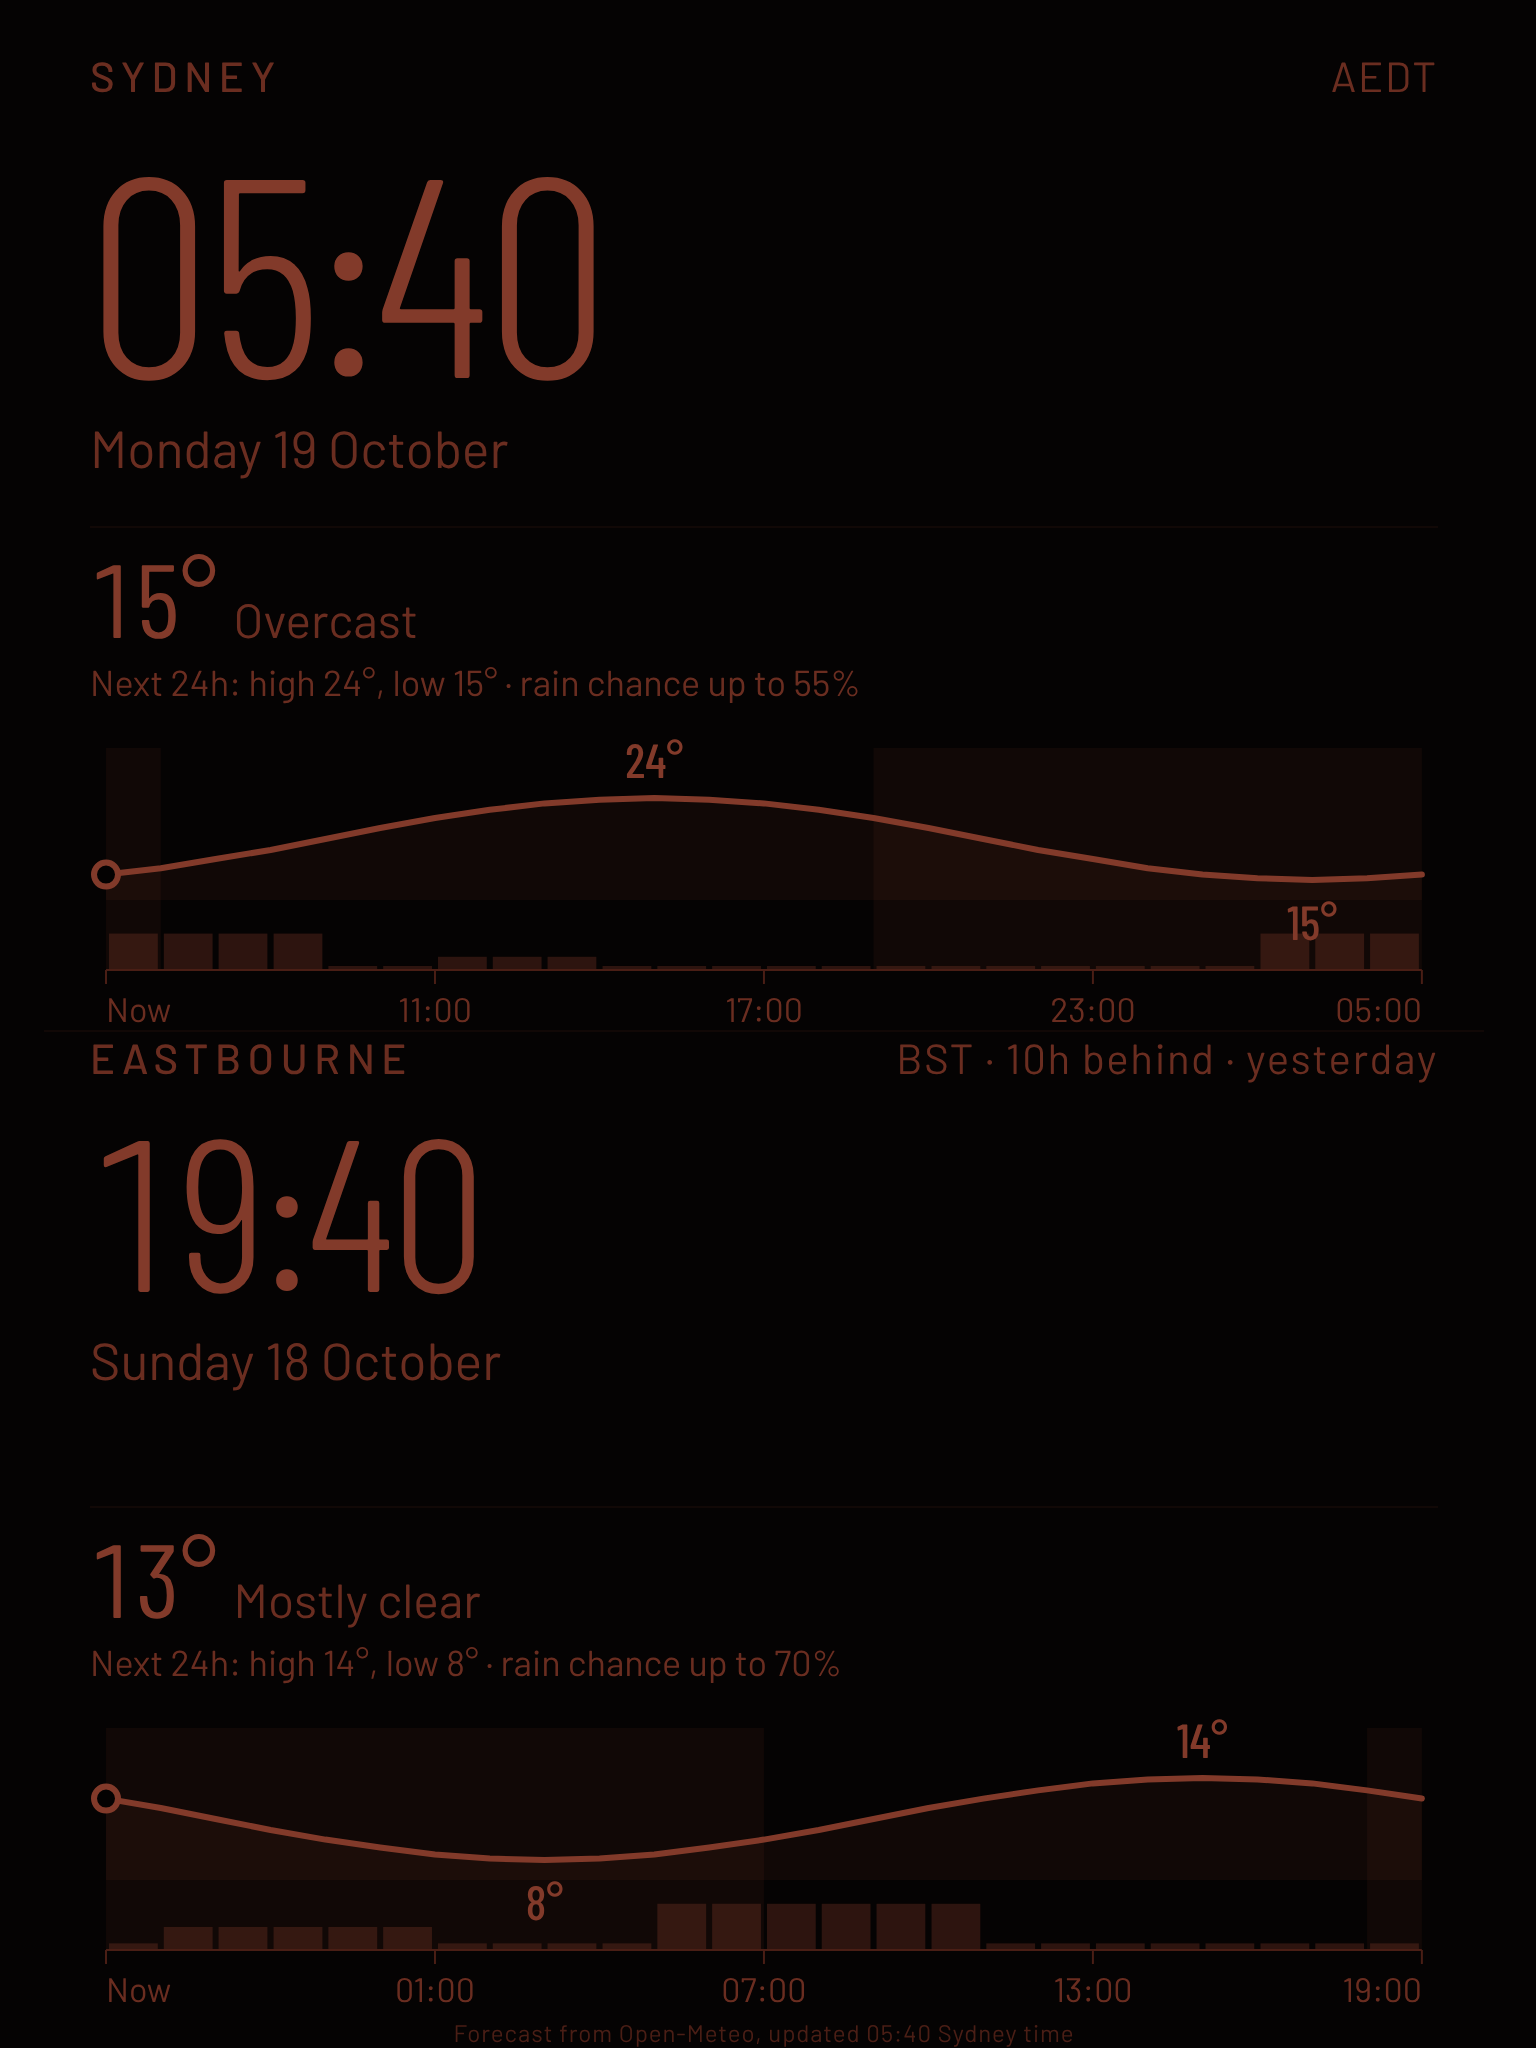
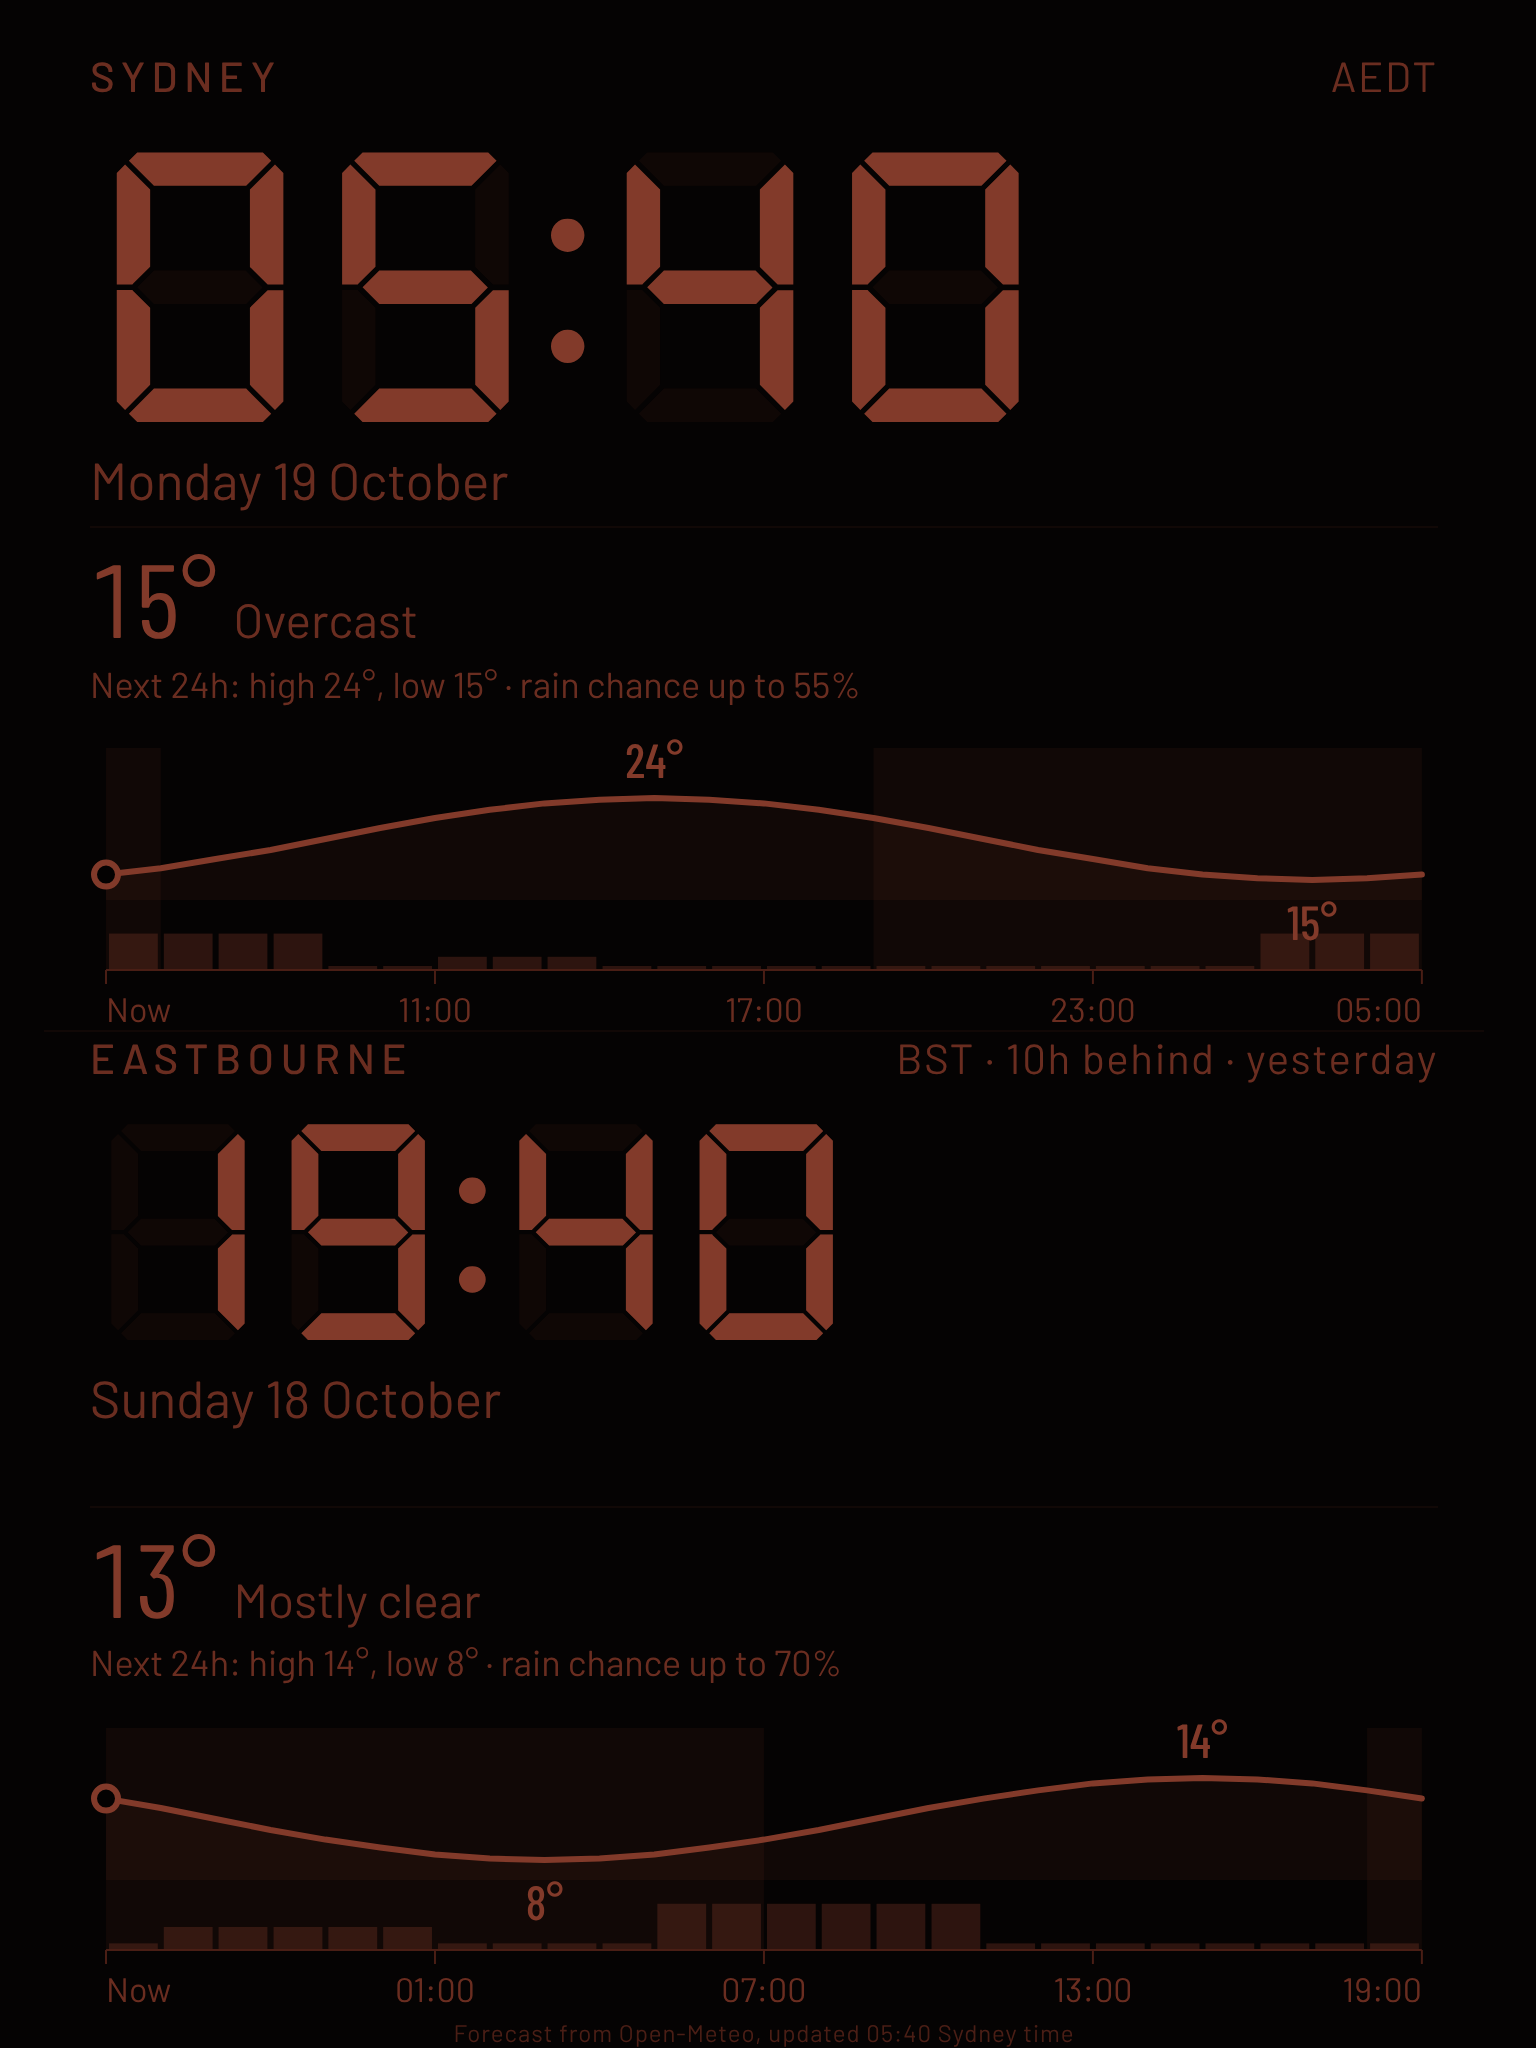
Switch time digits to a seven-segment display
Customer feedback: make the font look like the TV series 24. Uses DSEG7
Classic (SIL OFL, self-hosted) with faint unlit segments. Sydney column
widened to 2:1, fewer hour labels in the narrow chart, 12 hour mode pads
the hour with a blank digit so segments line up.

Claude-Session: https://claude.ai/code/session_01LHKBPoX4shMzbvKjK3tPdX

diff --git a/styles.css b/styles.css
@@ -2,6 +2,14 @@
    Layout: two city columns (Sydney wider) in landscape, two stacked rows in portrait.
    Everything sizes from its column width (cqw), so the same rules fit both orientations. */
 
+@font-face {
+  font-family: "DSEG7 Classic";
+  font-weight: 700;
+  font-style: normal;
+  font-display: swap;
+  src: url("fonts/dseg7-classic-latin-700-normal.woff2") format("woff2");
+}
+
 :root {
   --bg: #050303;
   --ink: #ff7352;      /* digits: warm red-orange, gentlest on night vision */
@@ -9,6 +17,7 @@
   --ink-3: #8f3a29;    /* footnotes and axes */
   --line: #1f0e0a;     /* hairlines and night shading */
   --dim: 0.9;
+  --digits: "DSEG7 Classic", "Barlow Condensed", "Arial Narrow", Arial, sans-serif;
   --display: "Barlow Condensed", "Arial Narrow", "Helvetica Neue", Arial, sans-serif;
   --body: "Barlow", -apple-system, "Helvetica Neue", Arial, sans-serif;
   color-scheme: dark;
@@ -34,7 +43,7 @@ body { font-family: var(--body); }
   position: fixed;
   top: 0; right: 0; bottom: 0; left: 0;
   display: grid;
-  grid-template-columns: minmax(0, 3fr) minmax(0, 2fr);
+  grid-template-columns: minmax(0, 2fr) minmax(0, 1fr);
   padding:
     max(24px, env(safe-area-inset-top))
     max(24px, env(safe-area-inset-right))
@@ -60,6 +69,7 @@ body { font-family: var(--body); }
 
 .city-head {
   display: flex;
+  flex-wrap: wrap;
   justify-content: space-between;
   align-items: baseline;
   gap: 12px;
@@ -73,23 +83,28 @@ body { font-family: var(--body); }
 .city-meta { letter-spacing: 0.04em; text-transform: none; color: var(--ink-2); text-align: right; }
 
 .time {
-  font-family: var(--display);
-  font-weight: 300;
-  font-size: 34cqw;
-  line-height: 0.92;
-  letter-spacing: -0.01em;
+  position: relative;
+  font-family: var(--digits);
+  font-weight: 700;
+  font-size: 24cqw;
+  line-height: 1;
+  letter-spacing: 0.02em;
   white-space: nowrap;
-  font-variant-numeric: tabular-nums;
-  margin-top: 0.12em;
+  margin-top: 0.2em;
 }
 
-#city-syd .time { font-size: 50cqw; }
+/* unlit segments, like a real LED display */
+.time .ghost { position: absolute; left: 0; top: 0; opacity: 0.09; pointer-events: none; }
+.time .hm { white-space: pre; }
+
+#city-syd .time { font-size: 25cqw; }
 
 .ap {
+  font-family: var(--body);
   font-size: 0.2em;
   font-weight: 400;
   letter-spacing: 0.04em;
-  margin-left: 0.18em;
+  margin-left: 0.3em;
   color: var(--ink-2);
 }
 
@@ -187,7 +202,7 @@ body { font-family: var(--body); }
   .city + .city { border-left: 0; border-top: 1px solid var(--line); }
   #app { padding-top: max(20px, env(safe-area-inset-top)); padding-bottom: max(24px, env(safe-area-inset-bottom)); }
   .city { gap: 8px; }
-  #city-syd .time { font-size: 21cqw; }
+  #city-syd .time { font-size: 20cqw; }
   #city-uk .time { font-size: 16cqw; }
   .wx { padding-top: 8px; }
   .wx-temp { font-size: 52px; }

diff --git a/index.html b/index.html
@@ -14,7 +14,8 @@
 <link rel="apple-touch-icon" href="icon-180.png">
 <link rel="preconnect" href="https://fonts.googleapis.com">
 <link rel="preconnect" href="https://fonts.gstatic.com" crossorigin>
-<link rel="stylesheet" href="https://fonts.googleapis.com/css2?family=Barlow+Condensed:wght@300;400;500&amp;family=Barlow:wght@400;500&amp;display=swap">
+<link rel="preload" href="fonts/dseg7-classic-latin-700-normal.woff2" as="font" type="font/woff2" crossorigin>
+<link rel="stylesheet" href="https://fonts.googleapis.com/css2?family=Barlow+Condensed:wght@400;500&amp;family=Barlow:wght@400;500&amp;display=swap">
 <link rel="stylesheet" href="styles.css">
 </head>
 <body>
@@ -26,7 +27,7 @@
         <span class="city-name">Sydney</span>
         <span class="city-meta" id="syd-meta"></span>
       </header>
-      <div class="time"><span id="syd-hm">--:--</span><span class="ap" id="syd-ap"></span></div>
+      <div class="time"><span class="ghost" aria-hidden="true">88:88</span><span class="hm" id="syd-hm">--:--</span><span class="ap" id="syd-ap"></span></div>
       <div class="date" id="syd-date"></div>
     </div>
     <div class="wx">
@@ -45,7 +46,7 @@
         <span class="city-name">Eastbourne</span>
         <span class="city-meta" id="uk-meta"></span>
       </header>
-      <div class="time"><span id="uk-hm">--:--</span><span class="ap" id="uk-ap"></span></div>
+      <div class="time"><span class="ghost" aria-hidden="true">88:88</span><span class="hm" id="uk-hm">--:--</span><span class="ap" id="uk-ap"></span></div>
       <div class="date" id="uk-date"></div>
     </div>
     <div class="wx">

diff --git a/app.js b/app.js
@@ -79,7 +79,10 @@
   function dayKey(z) { return z.y * 10000 + z.mo * 100 + z.d; }
 
   function clockText(z) {
-    if (hour12) return { hm: ((z.h % 12) || 12) + ':' + pad(z.mi), ap: z.h < 12 ? 'am' : 'pm' };
+    if (hour12) {
+      var h12 = (z.h % 12) || 12;
+      return { hm: (h12 < 10 ? ' ' : '') + h12 + ':' + pad(z.mi), ap: z.h < 12 ? 'am' : 'pm' };
+    }
     return { hm: pad(z.h) + ':' + pad(z.mi), ap: '' };
   }
 
@@ -319,7 +322,8 @@
     if (loI !== hiI && hi - lo >= 1) s += valueLabel(loI, lo, 30);
 
     // hour labels
-    [0, 6, 12, 18, 24].forEach(function (k) {
+    var marks = W < 360 ? [0, 8, 16, 24] : [0, 6, 12, 18, 24];  // fewer labels in a narrow column
+    marks.forEach(function (k) {
       var anchor = k === 0 ? 'start' : k === 24 ? 'end' : 'middle';
       var text = k === 0 ? 'Now' : hourLabel(win.t[k], city.tz);
       s += '<line class="tick" x1="' + x(k).toFixed(1) + '" y1="' + AX + '" x2="' + x(k).toFixed(1)

diff --git a/README.md b/README.md
@@ -1,6 +1,6 @@
 # Night Clock
 
-A bedside clock for an old iPad (6th generation, iPadOS 17). It shows the time in Sydney and the UK (Eastbourne), how far apart they are, and the weather for the next 24 hours in both places. Warm red on black, dims itself at night.
+A bedside clock for an old iPad (6th generation, iPadOS 17). It shows the time in Sydney and the UK (Eastbourne), how far apart they are, and the weather for the next 24 hours in both places. Warm red seven-segment digits on black, dims itself at night.
 
 ![Landscape](docs/screenshots/landscape.png)
 
@@ -47,6 +47,7 @@ Then open http://localhost:8000.
 | `styles.css` | Layout and the night colour scheme |
 | `app.js` | Clock, time zones, forecast fetch and chart, controls |
 | `manifest.webmanifest`, `icon-*.png` | Home Screen install |
+| `fonts/` | Seven-segment digit font (DSEG7 Classic, SIL Open Font License, licence included) |
 | `docs/requirements.md` | Product backlog, open questions and feedback log |
 
 ## Known limits

diff --git a/docs/requirements.md b/docs/requirements.md
@@ -85,3 +85,4 @@ Status key: Built means the code exists and passed my own render checks. Accepte
 |------|-----------|----------|----------|
 | 19 Oct 2026 | 1 | Landscape, 24 hour, locations Eastbourne and Earlwood, repo named night-clock | Applied the same day |
 | 19 Oct 2026 | 1 | Make Sydney's digits larger than Eastbourne's | Sydney is now about 2.3 times the height of Eastbourne in landscape |
+| 19 Oct 2026 | 1 | Change the font so it looks like the TV series 24 | Bold seven-segment digital display with faint unlit segments. A look in the same spirit, not a copy of the show's graphic. Sydney is about 2.3 times the size of Eastbourne. Customer to confirm it is the right feel |
